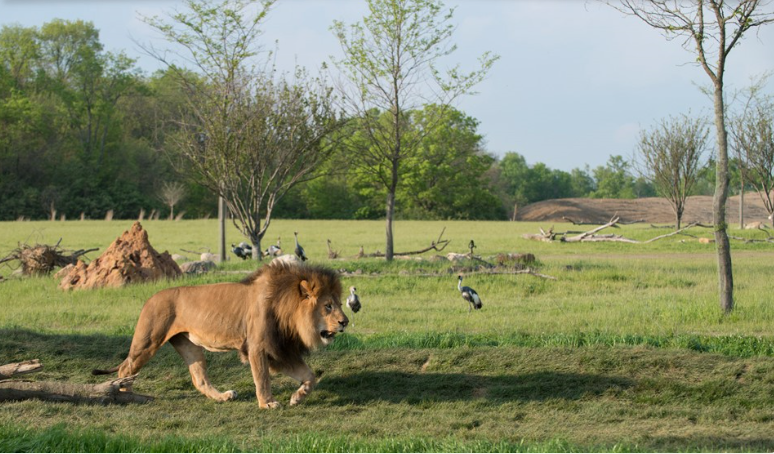
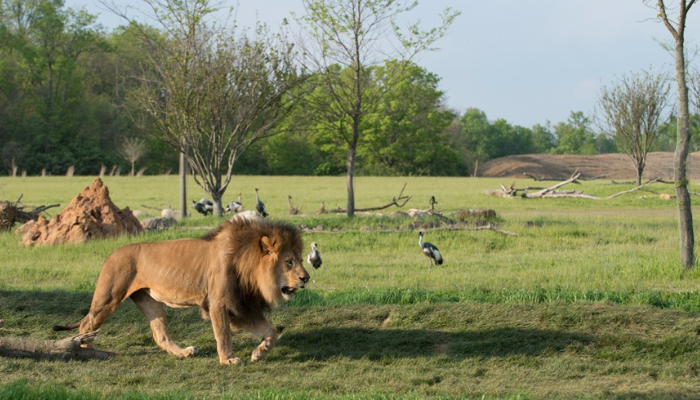
edit buttons

diff --git a/website/Calendar.html b/website/Calendar.html
@@ -107,11 +107,11 @@
 		  <div class="row">
 			<div class="col-lg-6 image-box">
 				<div class="tag">JACK HANNA DAYS: Nov 1-20</div> 
-				<img  src="calendar/jack.PNG" class="img-thumbnail" alt="Responsive image"/>
+				<img  src="calendar/jack.PNG" class="img-thumbnail image-size" alt="Responsive image"/>
 			</div>
 			<div class="col-lg-6 image-box">
 				<div class="tag">LEOPARDS ON DISLAY: Dec & Jan</div> 
-				<img  src="calendar/leopard.PNG" class="img-thumbnail" alt="Responsive image"/>
+				<img  src="calendar/leopard.PNG" class="img-thumbnail image-size" alt="Responsive image"/>
 			</div>
 		  </div>
 		  <div class="row">
@@ -120,11 +120,24 @@
 		  <div class="row">
 			<div class="col-lg-6 image-box">
 				<div class="tag">LION PRIDE: Limited Time!</div> 
-				<img  src="calendar/lion.PNG" class="img-thumbnail" alt="Responsive image"/>
+				<img  src="calendar/lion.PNG" class="img-thumbnail image-size" alt="Responsive image"/>
 			</div>
 			<div class="col-lg-6 image-box">
 				<div class="tag">HOWLING: Weeknights @ 7pm</div> 
-				<img  src="calendar/wolf.PNG" class="img-thumbnail" alt="Responsive image"/>
+				<img  src="calendar/wolf.PNG" class="img-thumbnail image-size" alt="Responsive image"/>
+			</div>
+		  </div>	
+		  <div class="row">
+			<div class="col-lg-1" style="height: 20px;"/>
+		  </div>
+		  <div class="row">
+			<div class="col-lg-6 image-box">
+				<div class="tag">Celebrate Birthdays: Register</div> 
+				<img  src="calendar/behind-birthday.PNG" class="img-thumbnail image-size" alt="Responsive image"/>
+			</div>
+			<div class="col-lg-6 image-box">
+				<div class="tag">DON FLAMINGO: Feather Collecting</div> 
+				<img  src="calendar/flamingo.PNG" class="img-thumbnail image-size" alt="Responsive image"/>
 			</div>
 		  </div>	
 		  <div class="row">
@@ -133,24 +146,37 @@
 		  <div class="row">
 			<div class="col-lg-6 image-box">
 				<div class="tag">BEAR WITH IT: Tues and Thurs</div> 
-				<img  src="calendar/bear.PNG" class="img-thumbnail" alt="Responsive image"/>
+				<img  src="calendar/bear.PNG" class="img-thumbnail image-size" alt="Responsive image"/>
 			</div>
 			<div class="col-lg-6 image-box">
 				<div class="tag">ELEPHANT EARS: Daily, 3pm - 5pm</div> 
-				<img  src="calendar/elephant.PNG" class="img-thumbnail" alt="Responsive image"/>
+				<img  src="calendar/elephant.PNG" class="img-thumbnail image-size" alt="Responsive image"/>
 			</div>
 		  </div>	 
+		  <div class="row">
+			<div class="col-lg-1" style="height: 20px;"/>
+		  </div>	  
+		  <div class="row">
+			<div class="col-lg-6 image-box">
+				<div class="tag">PAINT WITH PENGUINS: Register</div> 
+				<img  src="calendar/behind-painting.PNG" class="img-thumbnail image-size" alt="Responsive image"/>
+			</div>
+			<div class="col-lg-6 image-box">
+				<div class="tag">ELEPHANT EARS: Daily, 3pm - 5pm</div> 
+				<img  src="calendar/elephant.PNG" class="img-thumbnail image-size" alt="Responsive image"/>
+			</div>
+		  </div>
 		  <div class="row">
 			<div class="col-lg-1" style="height: 20px;"/>
 		  </div> 
 		  <div class="row">
 			<div class="col-lg-6 image-box">
-				<div class="tag">DON FLAMINGO: Feather Collecting</div> 
-				<img  src="calendar/flamingo.PNG" class="img-thumbnail" alt="Responsive image"/>
+				<div class="tag">Aquarium Tours: Register</div> 
+				<img  src="calendar/behind-aquarium.PNG" class="img-thumbnail image-size" alt="Responsive image"/>
 			</div>
 			<div class="col-lg-6 image-box">
 				<div class="tag">SNOW FOX DISCOVERY: All Winter</div> 
-				<img  src="calendar/fox.PNG" class="img-thumbnail" alt="Responsive image"/>
+				<img  src="calendar/fox.PNG" class="img-thumbnail image-size" alt="Responsive image"/>
 			</div>
 		  </div>	
 		  <div class="row">
@@ -159,24 +185,49 @@
 		  <div class="row">
 			<div class="col-lg-6 image-box">
 				<div class="tag">TOUCH AN ALLIGATOR: Weekdays, 3pm</div> 
-				<img  src="calendar/alligator.PNG" class="img-thumbnail" alt="Responsive image"/>
+				<img  src="calendar/alligator.PNG" class="img-thumbnail image-size" alt="Responsive image"/>
 			</div>
 			<div class="col-lg-6 image-box">
 				<div class="tag">BISON FUR WEAVING: Register Now</div> 
-				<img  src="calendar/bison.PNG" class="img-thumbnail" alt="Responsive image"/>
+				<img  src="calendar/bison.PNG" class="img-thumbnail image-size" alt="Responsive image"/>
 			</div>
 		  </div>	  
+		  <div class="row">
+			<div class="col-lg-1" style="height: 20px;"/>
+		  </div>  
+		  <div class="row">
+			<div class="col-lg-6 image-box">
+				<div class="tag">ZOO CAMP: Summer</div> 
+				<img  src="calendar/behind-camp.PNG" class="img-thumbnail image-size" alt="Responsive image"/>
+			</div>
+			<div class="col-lg-6 image-box">
+				<div class="tag">SAFARI TOURS: Register</div> 
+				<img  src="calendar/behind-safari.PNG" class="img-thumbnail image-size" alt="Responsive image"/>
+			</div>
+		  </div>	
 		  <div class="row">
 			<div class="col-lg-1" style="height: 20px;"/>
 		  </div>
 		  <div class="row">
 			<div class="col-lg-6 image-box">
 				<div class="tag">ENDANGERED SPECIES: Daily, 5pm</div> 
-				<img  src="calendar/tiger.PNG" class="img-thumbnail" alt="Responsive image"/>
+				<img  src="calendar/tiger.PNG" class="img-thumbnail image-size" alt="Responsive image"/>
 			</div>
 			<div class="col-lg-6 image-box">
 				<div class="tag">PETTING ZOO: All Day, Every Day</div> 
-				<img  src="calendar/tortuise.PNG" class="img-thumbnail" alt="Responsive image"/>
+				<img  src="calendar/tortuise.PNG" class="img-thumbnail image-size" alt="Responsive image"/>
+			</div>
+		  <div class="row">
+			<div class="col-lg-1" style="height: 20px;"/>
+		  </div>
+		  <div class="row">
+			<div class="col-lg-6 image-box">
+				<div class="tag">AFTER HOURS TOUR: Register</div> 
+				<img  src="calendar/behind-after.PNG" class="img-thumbnail image-size" alt="Responsive image"/>
+			</div>
+			<div class="col-lg-6 image-box">
+				<div class="tag">FISHTASTIC: 1pm - 4pm</div> 
+				<img  src="calendar/fish.PNG" class="img-thumbnail image-size" alt="Responsive image"/>
 			</div>
 		  <div class="row">
 			<div class="col-lg-1" style="height: 20px;"/>

diff --git a/website/Calendar.css b/website/Calendar.css
@@ -19,3 +19,8 @@
 	.separator-row {
 		height: 20px;
 	}
+	
+	.image-size{
+		max-height:400px;
+		max-width:500px;
+	}
